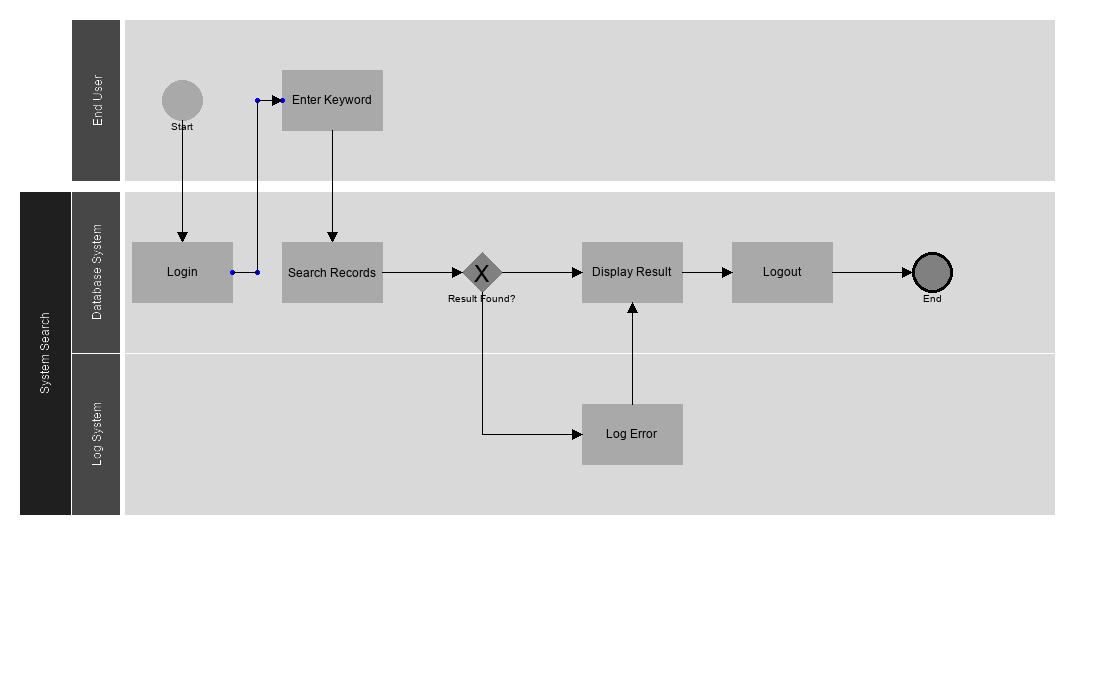
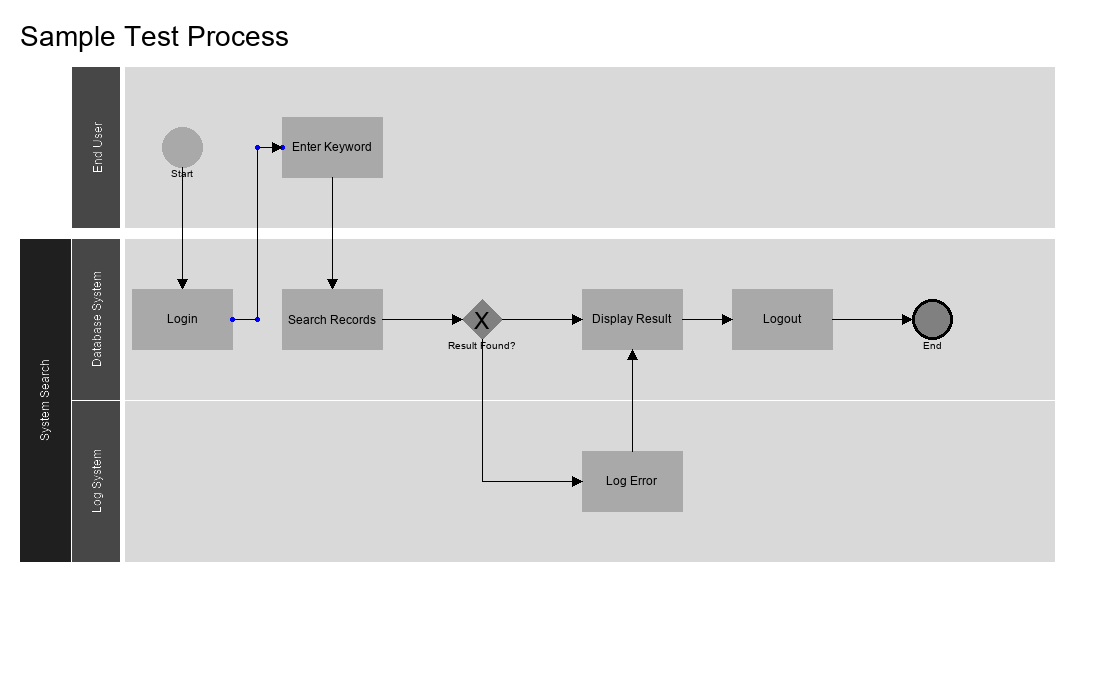
Update code to test Title

diff --git a/src/test_processmapper.py b/src/test_processmapper.py
@@ -72,7 +72,7 @@ def test_case3():
 
 
 def test_case4():
-    with ProcessMap("Test Process", 950, 700) as my_process_map:
+    with ProcessMap("Sample Test Process", 950, 700) as my_process_map:
         with my_process_map.add_pool("System Search") as pool1:
             with pool1.add_lane("End User") as lane1:
                 start = lane1.add_element("Start", EventType.START)
@@ -99,7 +99,7 @@ def test_case4():
 
 
 def test_case5():
-    with ProcessMap("Test Process", 1100, 700) as my_process_map:
+    with ProcessMap("Sample Test Process", 1100, 700) as my_process_map:
         with my_process_map.add_lane("End User") as lane1:
             start = lane1.add_element("Start", EventType.START)
             enter_keyword = lane1.add_element("Enter Keyword", ActivityType.TASK)
